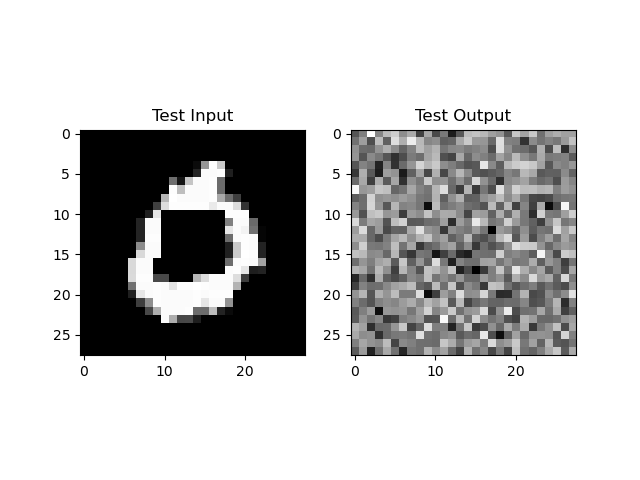
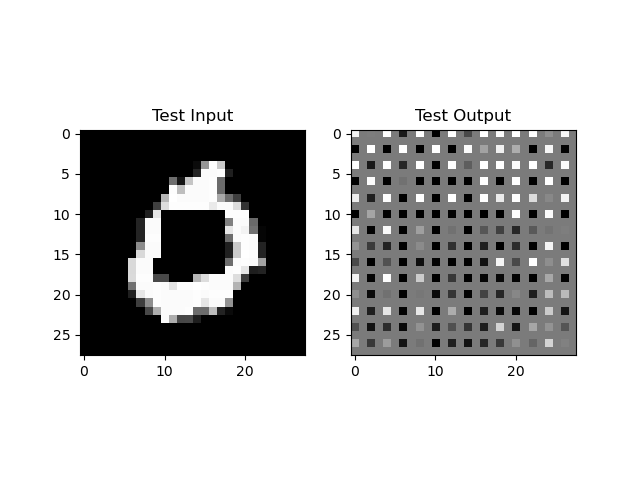
another model that doesn't work but more advanced

Changed region(s): [[0.5312, 0.25, 0.9062, 0.75]]

diff --git a/Proj3/task3_be9ai3nsdj/template_solution.py b/Proj3/task3_be9ai3nsdj/template_solution.py
@@ -131,7 +131,7 @@ def training(train_data_input, train_data_label, **kwargs):
     # Also consider that you might not want to use the entire dataset for
     # training alone
     # (batch_size needs to be changed)
-    batch_size = 100
+    batch_size = 64
     dataset = TensorDataset(train_data_input, train_data_label)
     # Consider the shuffle parameter and other parameters of the DataLoader
     # class (see
@@ -176,9 +176,22 @@ class Model(nn.Module):
         self.fc = nn.Linear(784, 784)
 
         # added stuff
-        self.activation = torch.nn.ReLU()
-        self.linear1 = torch.nn.Linear(784, 784)
-        self.LogSoftmax = torch.nn.LogSoftmax()
+        self.encoder = nn.Sequential(    
+            nn.Unflatten(1, (1, 28, 28)),                                                   # formula: (input_size - kernel_size + 2*padding)/stride + 1        (1, 28, 28)
+            nn.Conv2d(in_channels=1, out_channels=16, kernel_size=5, stride=1),             # (28-5+0)/1 + 1 = 24       (16, 24, 24)
+            nn.ReLU(),
+            nn.MaxPool2d(kernel_size=2),                                                    # 24/2 = 14                 (16, 12, 12)
+            nn.Conv2d(in_channels=16, out_channels=32, kernel_size=5, stride=1),            # (12-5+0)/1 + 1 = 8        (32, 8, 8)
+            nn.ReLU(),
+            nn.MaxPool2d(kernel_size=2)                                                     # 8/2 = 4                   (32, 4, 4)
+        )
+
+        self.decoder = nn.Sequential(                                                                           # formula: (input_size - 1) * stride - 2*padding + dilation * (kernel_size - 1) + output_padding + 1
+            nn.ConvTranspose2d(in_channels=32, out_channels=16, kernel_size=5, stride=2, padding=2, dilation=2, output_padding=1),     # (4 - 1) * 2 - 0 + 4 + 1 + 1 = 12      (16, 12, 12)
+            nn.ReLU(),                                                                      
+            nn.ConvTranspose2d(in_channels=16, out_channels=1, kernel_size=5, stride=2, padding=2, dilation=2, output_padding=1),      # (12 - 1) * 2 - 0 + 4 + 1 + 1 = 28     (1, 28, 28)
+            nn.Sigmoid()
+        )
 
     def forward(self, x):
         """
@@ -194,9 +207,9 @@ class Model(nn.Module):
         x = F.relu(x)
 
         # added stuff
-        x = self.activation(x)
-        x = self.linear1(x)
-        x = self.LogSoftmax(x)
+        #x = x.view(-1, 1, 28, 28)
+        x= self.encoder(x)
+        x = self.decoder(x)
 
         # Reshape the image to the original shape
         x = x.view(x.shape[0], 1, 28, 28)
